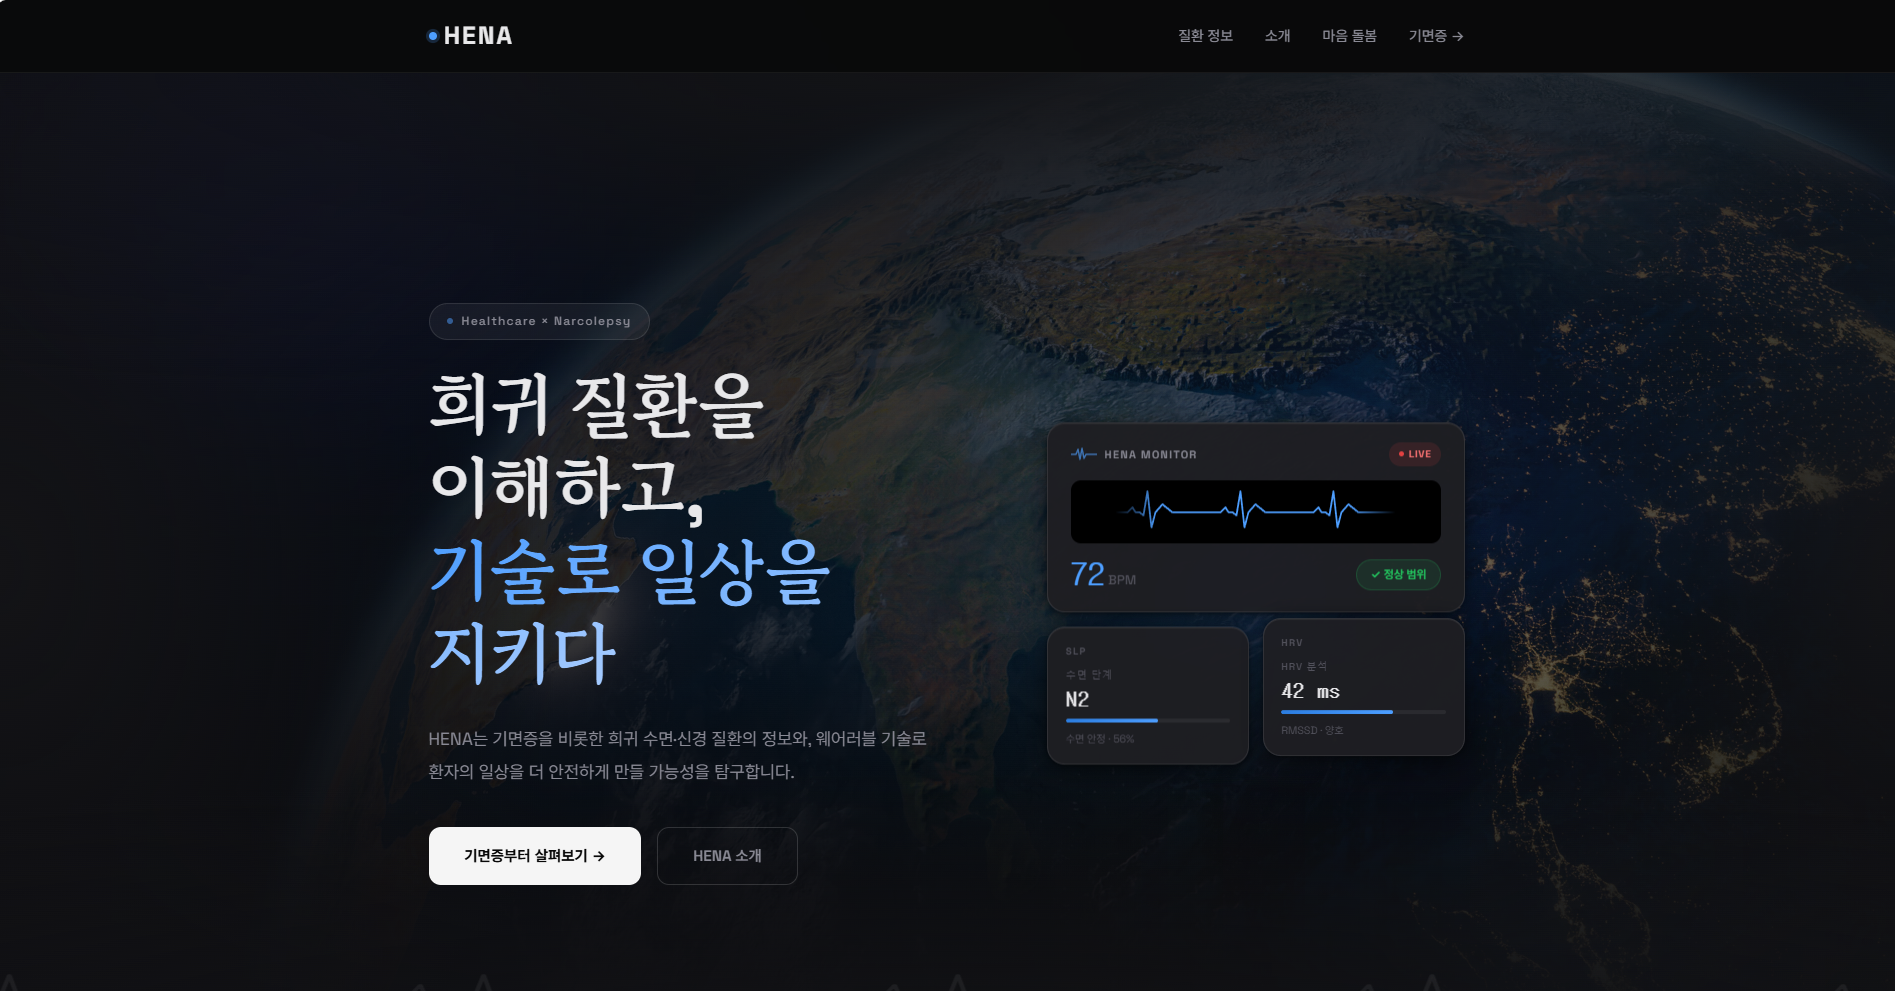
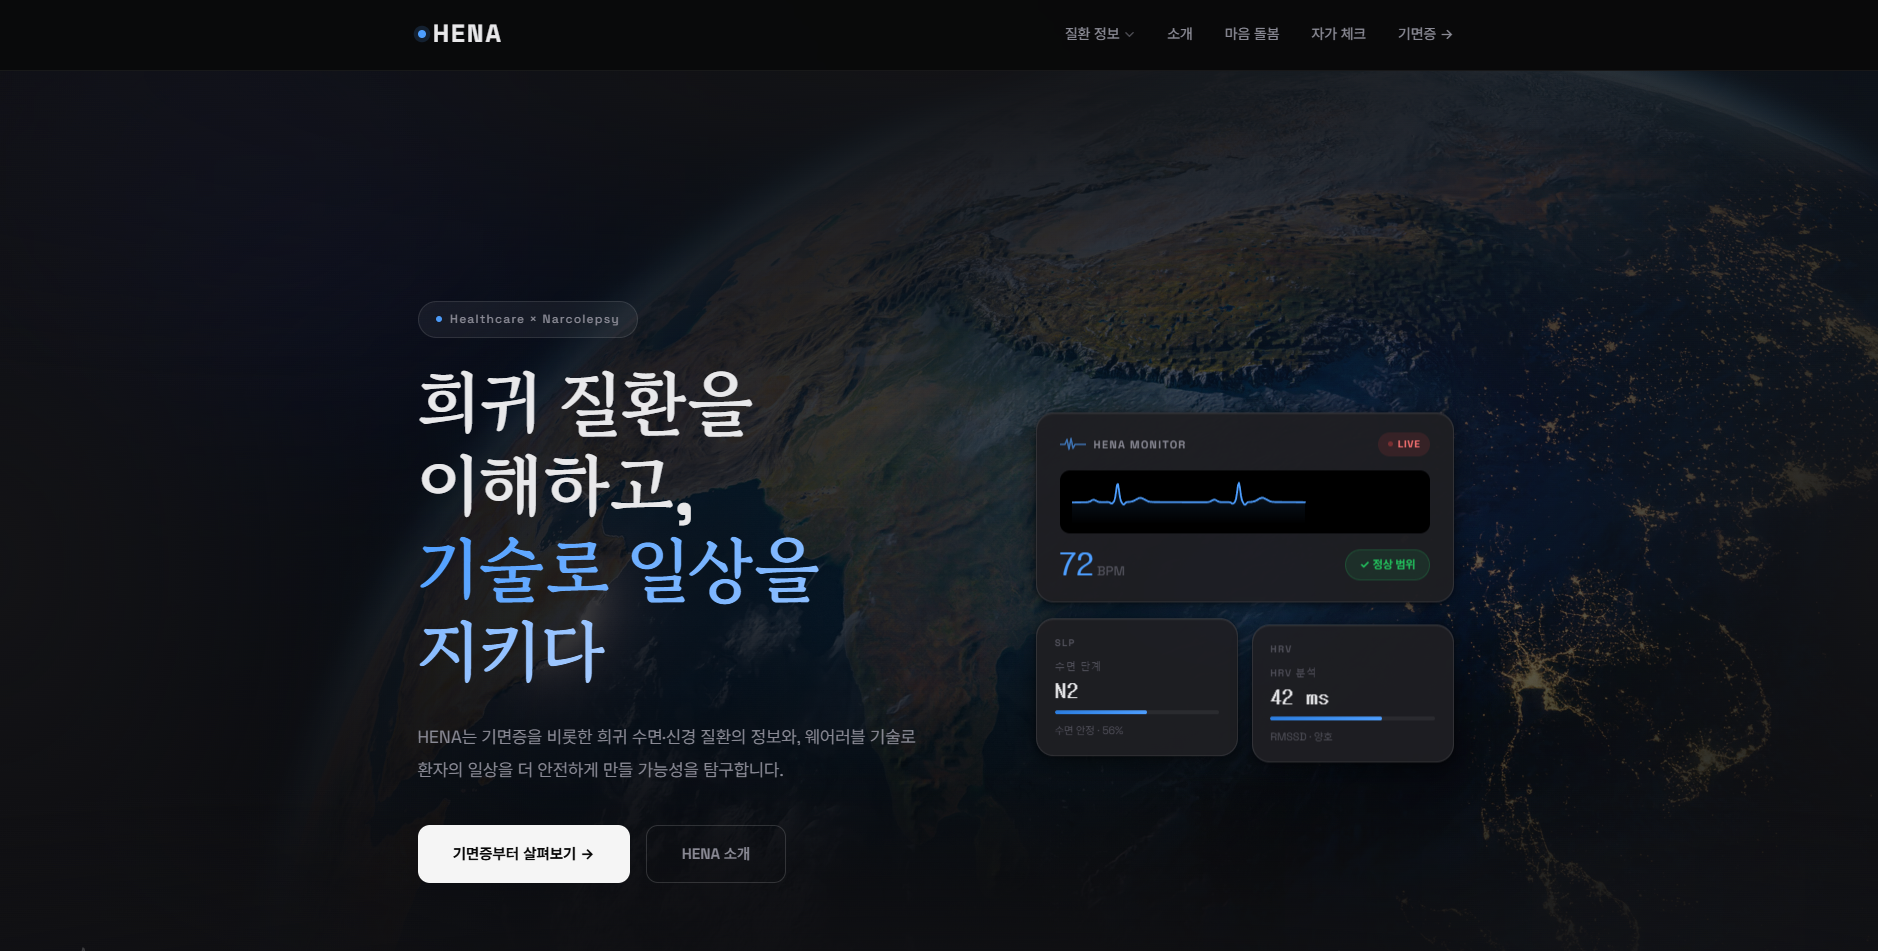
docs: README에 주요 화면 스크린샷 4개 추가
- 기면증 증상 카드, HRV 시뮬레이션, 자가 체크, 마음 돌봄 스크린샷 본문 분산 배치
- 메인 히어로 스크린샷 최신 버전으로 교체
- 각 이미지 대체텍스트(alt) 지정

diff --git a/README.md b/README.md
@@ -26,6 +26,10 @@ Live → https://hcu1116.github.io/hena/
 ▸ 실제 데이터 분석 — PhysioNet 웨어러블 수면 데이터 기반 ML 파이프라인 구현
 ▸ 마음 돌봄 — 기면증 동반 정신건강 문제(우울·불안)에 대한 정보 공간 제공
 
+![기면증 주요 증상 인터랙티브 카드](docs/screenshots/screenshot-symptoms.png)
+
+![환자 정신건강을 위한 마음 돌봄 공간](docs/screenshots/screenshot-mentalcare.png)
+
 ## 기술 스택 (Tech Stack)
 
 Frontend: HTML · CSS · JavaScript (Vanilla)
@@ -38,8 +42,12 @@ PhysioNet sleep-accel 데이터셋(7명)으로 RandomForest 기반 수면단계 
 단일 피험자 랜덤 분리 기준 68.9%, Leave-One-Out 교차검증(진짜 일반화 성능) 기준 평균 40.9%.
 HRV 피처(RMSSD·SDNN·pNN50) 추가 시 42.8%로 소폭 개선됨을 확인했습니다.
 
+![일반인 vs 기면증 실시간 HRV 비교 시뮬레이션](docs/screenshots/screenshot-simulation.png)
+
 한계: 웨어러블 HRV는 임상 PSG 수준의 HRV와 다르며, 7명 소규모 데이터라 일반화에 한계가 있습니다.
 상세 코드 및 분석 과정은 `learning/06_realdata` 참고.
+
+![ESS·SNS 기반 졸음 자가 체크](docs/screenshots/screenshot-selfcheck.png)
 
 ## 프로젝트 구조 (Structure)
 